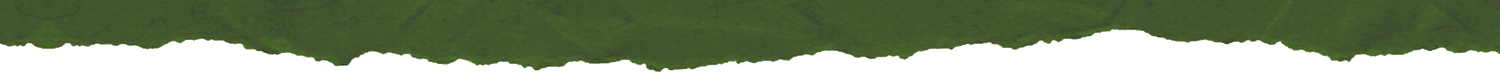
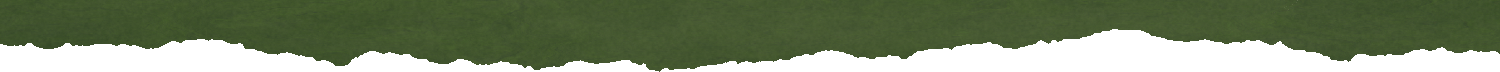
Make the header paper unique and drop the cream fringe on the tear.
Keep the existing rip shape; only the crinkle and the pale halo around it change.

diff --git a/assets/css/main.css b/assets/css/main.css
@@ -38,7 +38,7 @@ h1, h2, h3, h4 {
 .wrap { width: min(1100px, calc(100% - 2rem)); margin-inline: auto; }
 .site-header {
   background-color: var(--green);
-  background-image: url("/assets/images/header-paper.png?v=3");
+  background-image: url("/assets/images/header-paper.png?v=4");
   background-position: top left;
   background-size: 100% 100%;
   background-repeat: no-repeat;
@@ -55,7 +55,7 @@ h1, h2, h3, h4 {
   top: 100%;
   height: max(32px, calc(100vw * 55 / 1500));
   margin-top: -8px;
-  background: url("/assets/images/header-tear.png?v=3") left top / calc(100% + 4px) 100% no-repeat;
+  background: url("/assets/images/header-tear.png?v=4") left top / calc(100% + 4px) 100% no-repeat;
   pointer-events: none;
 }
 .header-inner {

diff --git a/templates/base.html b/templates/base.html
@@ -9,7 +9,7 @@
   <link rel="preconnect" href="https://fonts.googleapis.com">
   <link rel="preconnect" href="https://fonts.gstatic.com" crossorigin>
   <link href="https://fonts.googleapis.com/css2?family=Cormorant+Garamond:ital,wght@0,500;0,600;0,700;1,500&family=Libre+Franklin:ital,wght@0,300;0,400;0,500;0,700;1,400&display=swap" rel="stylesheet">
-  <link rel="stylesheet" href="/assets/css/main.css?v=header3">
+  <link rel="stylesheet" href="/assets/css/main.css?v=header4">
   <meta property="og:title" content="{{ title or site.title }}">
   <meta property="og:site_name" content="{{ site.title }}">
   <meta property="og:type" content="{% if og_type %}{{ og_type }}{% else %}website{% endif %}">
